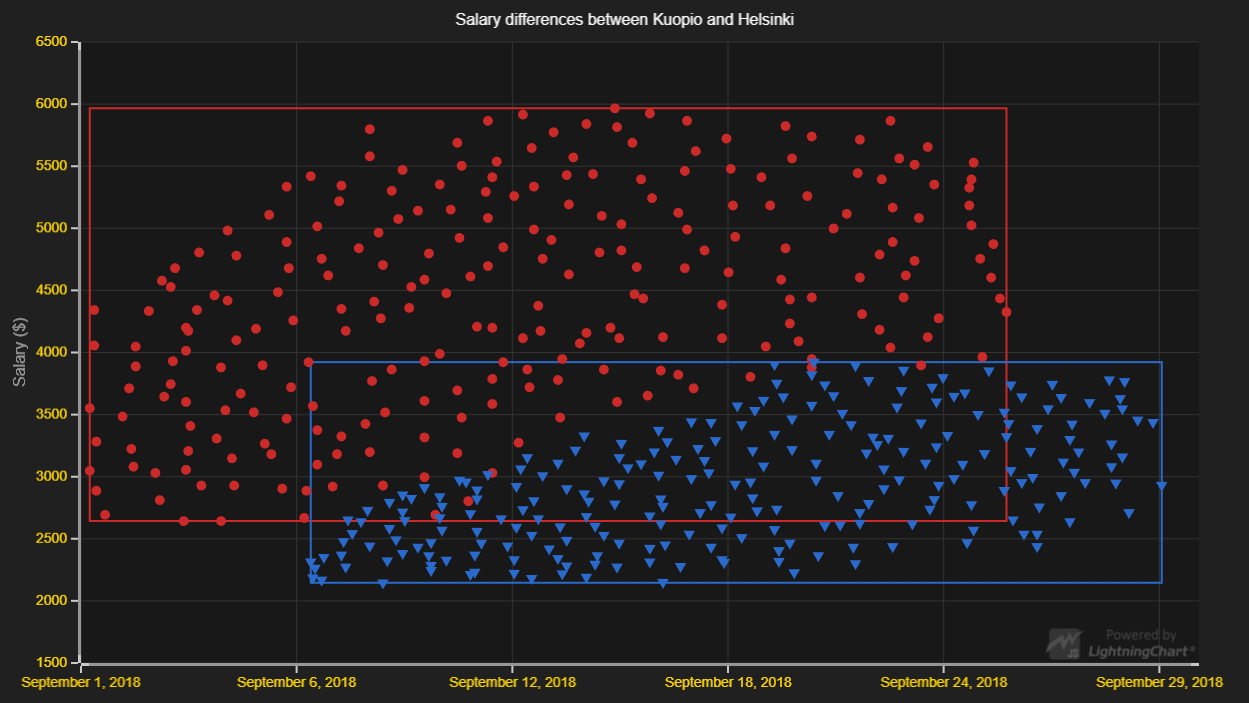
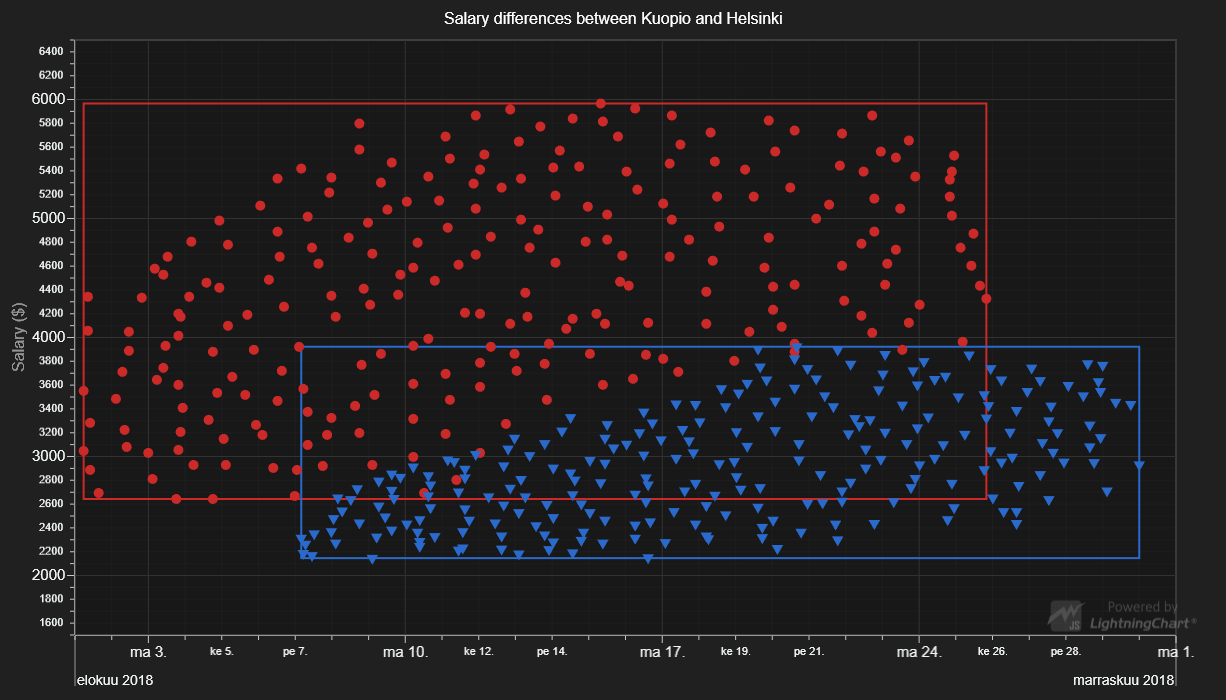
LCJS 2.0.0

diff --git a/src/index.js b/src/index.js
@@ -12,7 +12,8 @@ const {
     ColorPalettes,
     emptyFill,
     AxisTickStrategies,
-    PointShape
+    PointShape,
+    Themes
 } = lcjs
 
 // ----- Cache used styles -----
@@ -25,12 +26,19 @@ const dateOrigin = new Date(2018, 8, 1)
 
 // Create a XY Chart.
 const chart = lightningChart().ChartXY({
-    defaultAxisXTickStrategy: AxisTickStrategies.DateTime(dateOrigin),
+    // theme: Themes.dark
 })
     .setTitle('Salary differences between Kuopio and Helsinki')
     .setPadding({
         right: 50
     })
+
+// Modify the default X Axis to use DateTime TickStrategy, and set the origin for the DateTime Axis.
+chart.getDefaultAxisX()
+    .setTickStrategy(
+        AxisTickStrategies.DateTime,
+        (tickStrategy) => tickStrategy.setDateOrigin(dateOrigin)
+    )
 
 // Add a series for each cluster of points
 const fstClusterSeries = chart.addPointSeries({ pointShape: PointShape.Circle })

diff --git a/README.md b/README.md
@@ -51,13 +51,13 @@ The boundary rectangle is defined by two points in 2D space. The same methods ar
 
 ## API Links
 
-* XY cartesian chart: [ChartXY]
-* Point series: [PointSeries]
-* Rectangle series: [RectangleSeries]
-* Color palettes: [ColorPalettes]
-* Solid FillStyle: [SolidFill]
-* Empty FillStyle: [emptyFill]
-* Solid LineStyle: [SolidLine]
+* [XY cartesian chart]
+* [Point series]
+* [Rectangle series]
+* [Color palettes]
+* [Solid FillStyle]
+* [Empty FillStyle]
+* [Solid LineStyle]
 
 
 ## Support
@@ -81,11 +81,11 @@ Direct developer email support can be purchased through a [Support Plan][4] or b
 © Arction Ltd 2009-2020. All rights reserved.
 
 
-[ChartXY]: https://www.arction.com/lightningchart-js-api-documentation/v1.3.0/classes/chartxy.html
-[PointSeries]: https://www.arction.com/lightningchart-js-api-documentation/v1.3.0/classes/pointseries.html
-[RectangleSeries]: https://www.arction.com/lightningchart-js-api-documentation/v1.3.0/classes/rectangleseries.html
-[ColorPalettes]: https://www.arction.com/lightningchart-js-api-documentation/v1.3.0/globals.html#colorpalettes
-[SolidFill]: https://www.arction.com/lightningchart-js-api-documentation/v1.3.0/classes/solidfill.html
-[emptyFill]: https://www.arction.com/lightningchart-js-api-documentation/v1.3.0/globals.html#emptyfill
-[SolidLine]: https://www.arction.com/lightningchart-js-api-documentation/v1.3.0/classes/solidline.html
+[XY cartesian chart]: https://www.arction.com/lightningchart-js-api-documentation/v2.0.0/classes/chartxy.html
+[Point series]: https://www.arction.com/lightningchart-js-api-documentation/v2.0.0/classes/pointseries.html
+[Rectangle series]: https://www.arction.com/lightningchart-js-api-documentation/v2.0.0/classes/rectangleseries.html
+[Color palettes]: https://www.arction.com/lightningchart-js-api-documentation/v2.0.0/globals.html#colorpalettes
+[Solid FillStyle]: https://www.arction.com/lightningchart-js-api-documentation/v2.0.0/classes/solidfill.html
+[Empty FillStyle]: https://www.arction.com/lightningchart-js-api-documentation/v2.0.0/globals.html#emptyfill
+[Solid LineStyle]: https://www.arction.com/lightningchart-js-api-documentation/v2.0.0/classes/solidline.html
 
